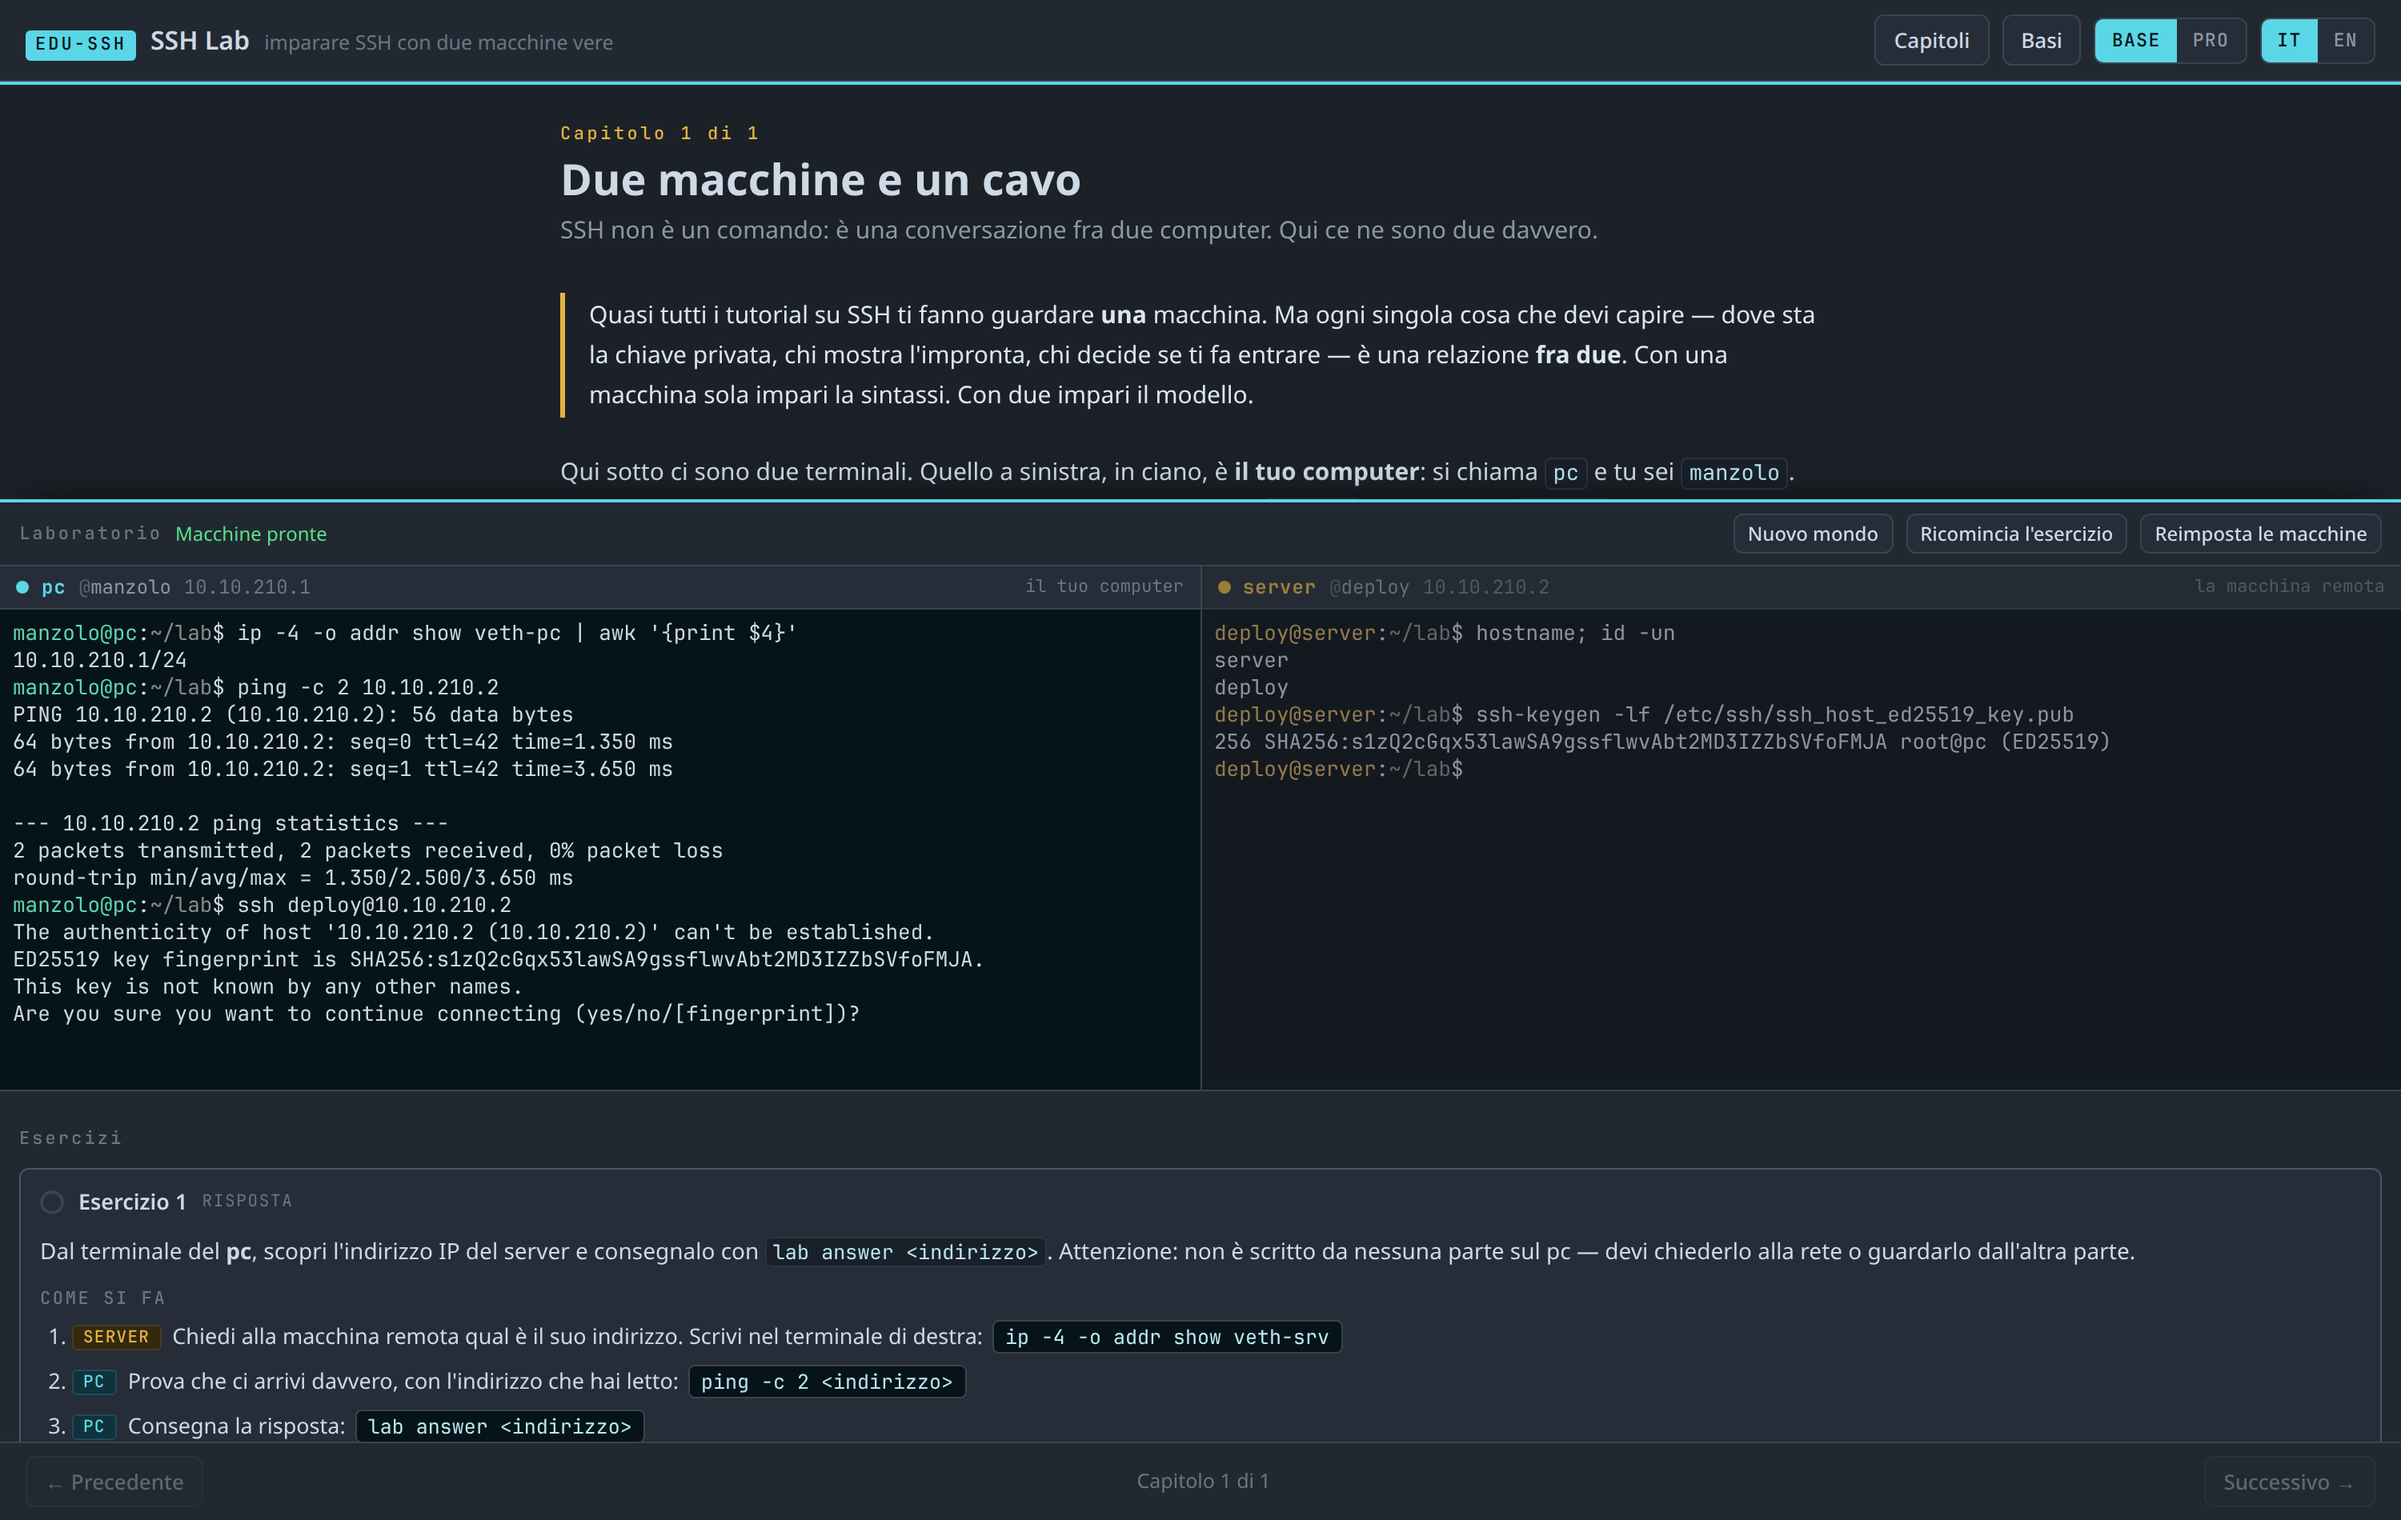
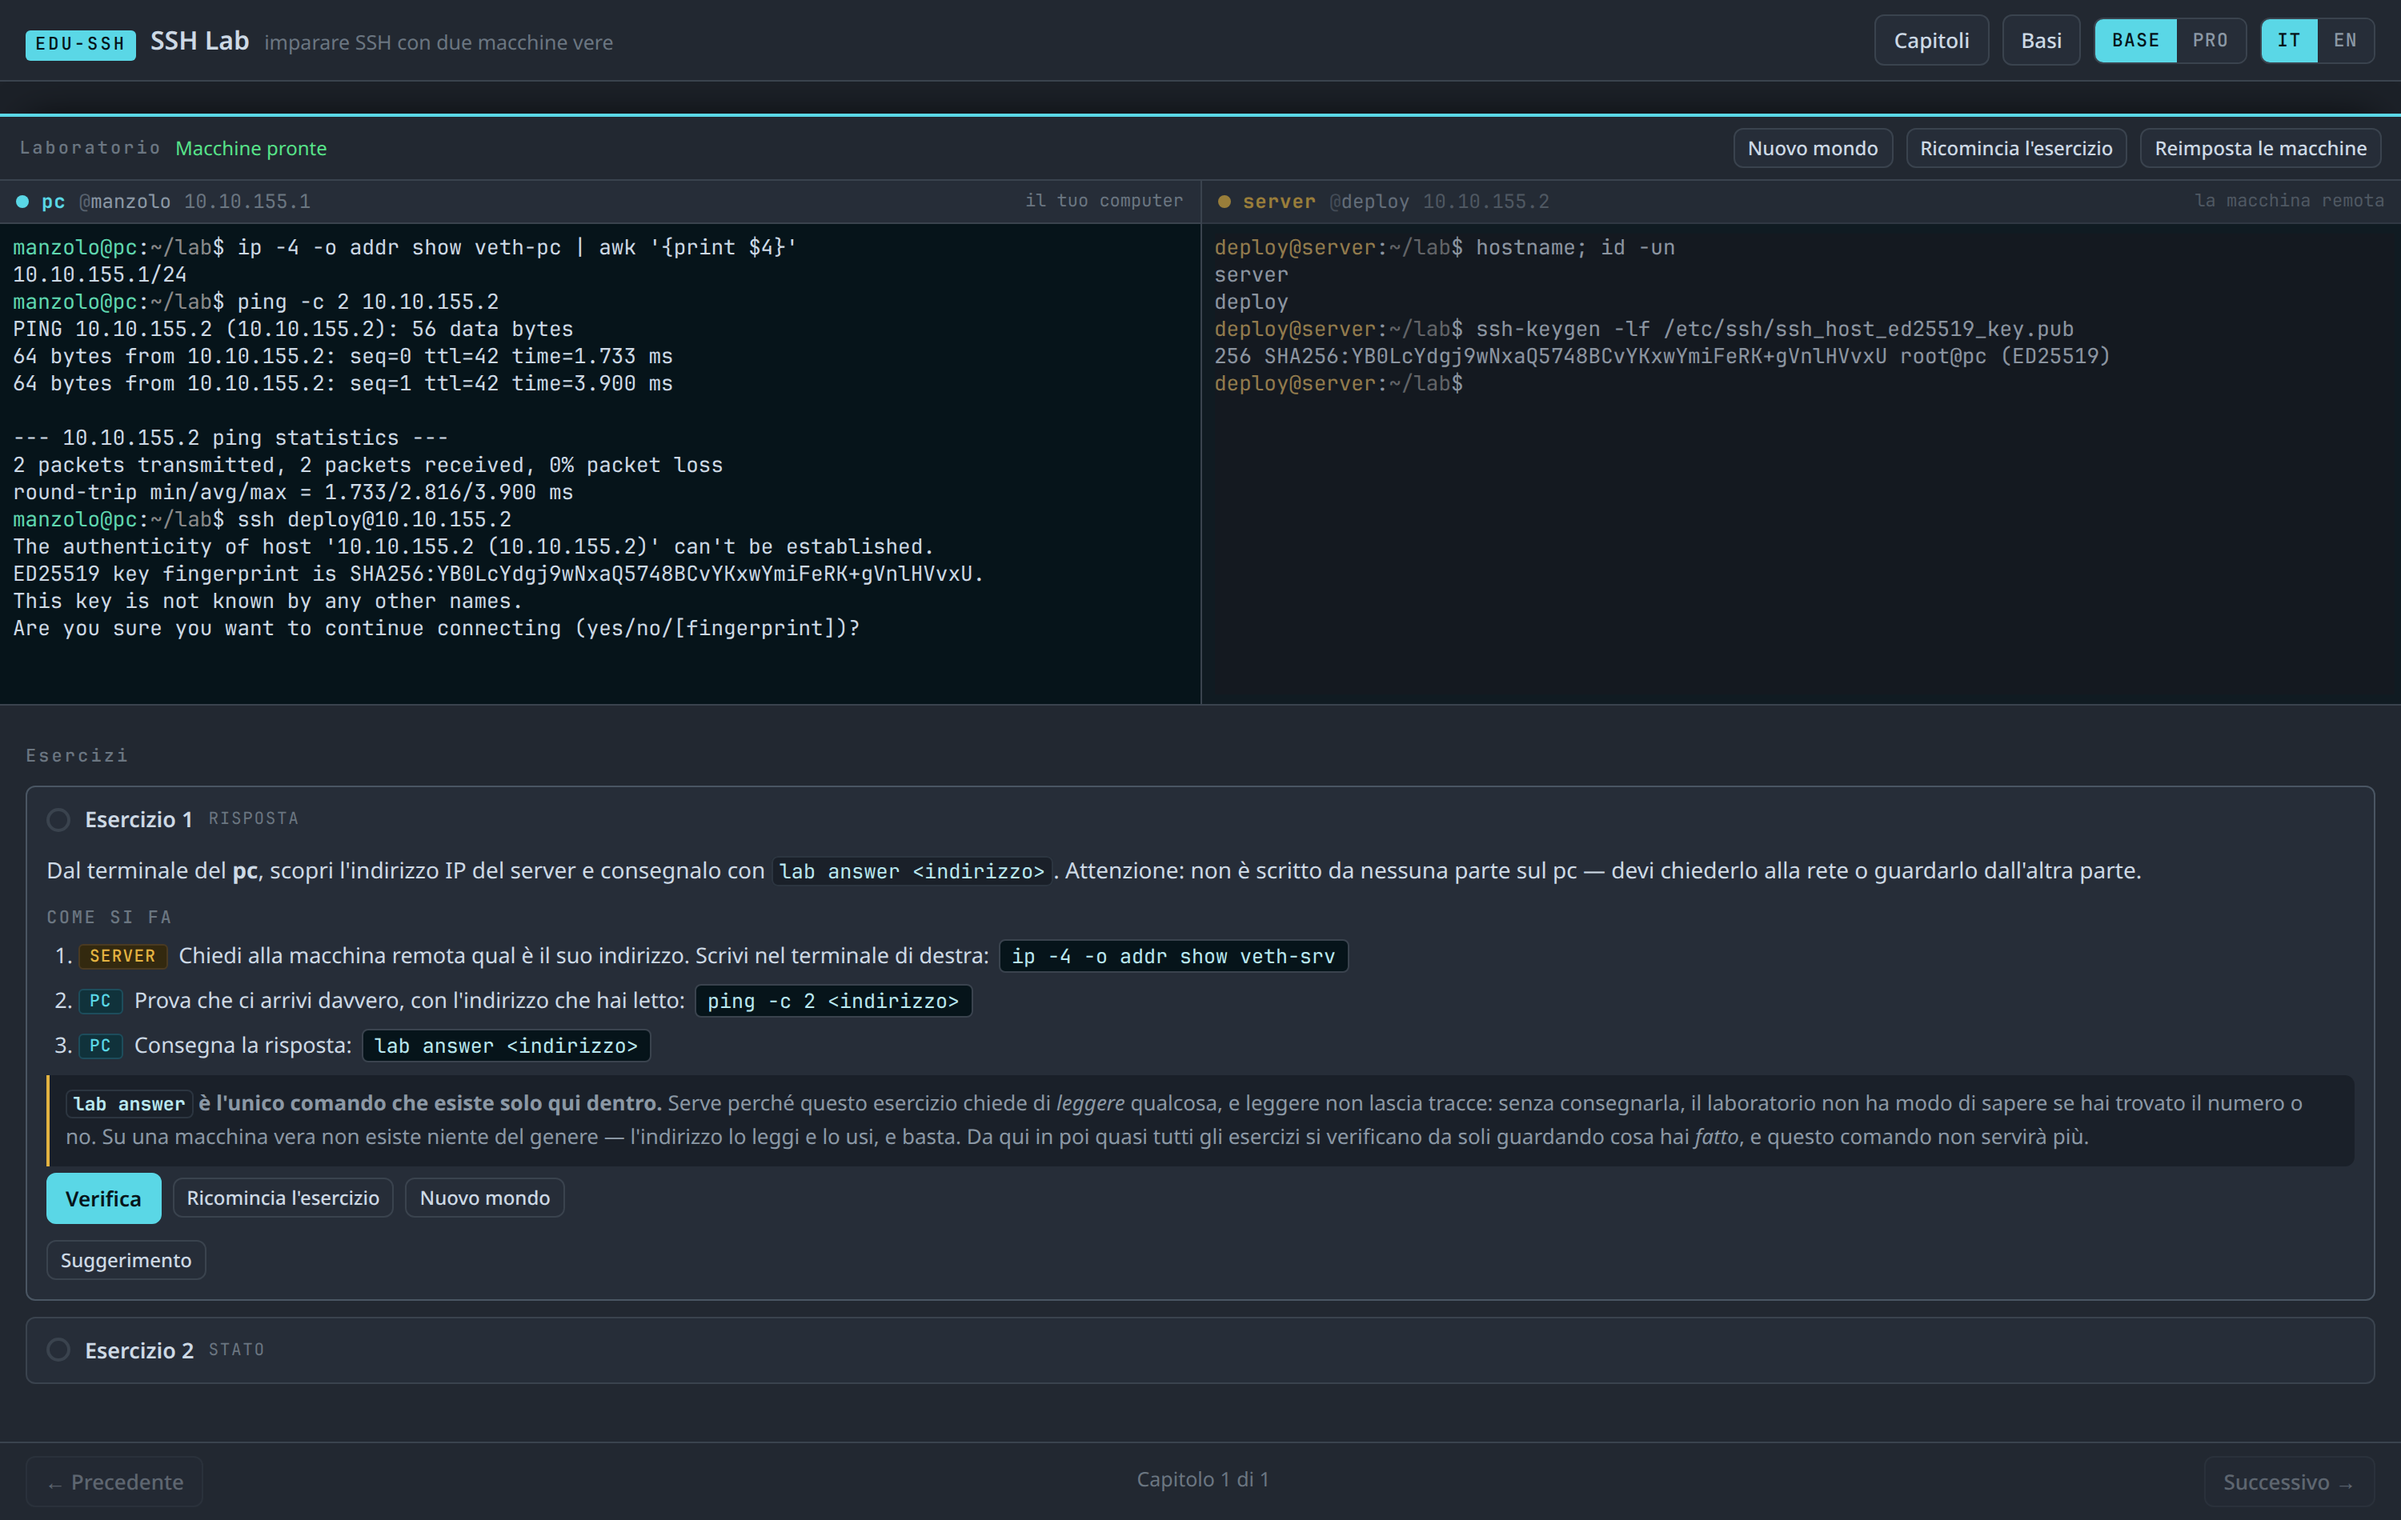
Una sola cosa che scorre: la pagina. E il verdetto fa vedere l'errore
Tre difetti trovati da Andrea usando il lab, tutti veri.

1. IL LAYOUT SPEZZAVA LE SEZIONI. Tenevo tre aree con un overflow ciascuna —
   capitolo, terminali, esercizi — dentro un'altezza bloccata. Risultato: il
   capitolo ridotto a una fessura col testo tagliato a meta' riga, e gli esercizi
   tagliati sopra e sotto.

   E' esattamente l'errore che il lab fratello aveva gia' fatto, pagato e scritto
   nel proprio CSS: «il punto non e' impilare, e' NON tenere tre aree che scorrono
   per conto loro». L'avevo reintrodotto dalla porta di servizio: avevo cambiato
   colonne in righe e mi ero tenuto le altezze bloccate, che erano la vera causa.
   Adesso scorre la pagina e basta; la barra in alto resta sticky perche' altrimenti
   sommario e lingua sparirebbero appena si scende.

2. I TRE PULSANTI USCIVANO DALLO SCHERMO. Su 380px "Reimposta le macchine" —
   cioe' la rete di sicurezza — restava tagliata fuori dalla finestra, irraggiungibile
   proprio nel momento in cui serve. Ora la testa del laboratorio va a capo, e sotto
   i 760px i tre si dividono una riga tutta loro. Stessa sorte alla tabella del
   riepilogo, che su 380px si spezza in blocchi invece di comprimersi in tre colonne
   illeggibili.

   Aggiunto tools/layout (nello scratchpad, non nel repo) e provato a 1500, 1000 e
   380px: nessun elemento fuori dalla finestra, nessuno scorrimento orizzontale.

3. IL VERDETTO NASCONDEVA L'ERRORE. Consegnando per sbaglio `lab answer lab
[…]

diff --git a/css/style.css b/css/style.css
@@ -23,15 +23,21 @@
 
 * { box-sizing: border-box; }
 
-html, body { height: 100%; }
+/* SCORRE LA PAGINA, E BASTA.
+   La versione precedente bloccava l'altezza e teneva tre aree con un overflow
+   ciascuna — capitolo, terminali, esercizi. Il risultato: il capitolo ridotto a una
+   fessura col testo tagliato a meta' riga, gli esercizi tagliati sopra e sotto, e
+   la sensazione che il layout spezzasse tutto. E' lo stesso errore che il lab
+   fratello aveva gia' fatto e documentato; qui era stato reintrodotto dalla porta
+   di servizio, cioe' impilando invece di affiancare ma tenendo le altezze bloccate.
+   Una sola area di scorrimento: quella del browser. */
+html, body { height: auto; }
 
 body {
     margin: 0;
     background: var(--chassis);
     color: var(--ink);
     font: 15px/1.65 var(--sans);
-    display: flex;
-    flex-direction: column;
 }
 
 code, kbd, pre { font-family: var(--mono); }
@@ -55,6 +61,9 @@ a { color: var(--phosphor); }
     background: var(--panel);
     border-bottom: 1px solid var(--panel-edge);
     flex-wrap: wrap;
+    /* Resta in cima mentre si scorre. Ora che scorre la pagina intera, senza questo
+       il sommario e il cambio lingua sparirebbero appena si scende ai terminali. */
+    position: sticky; top: 0; z-index: 20;
 }
 .marchio { display: flex; align-items: baseline; gap: 9px; flex: 1; min-width: 0; }
 .sigla {
@@ -92,26 +101,19 @@ a { color: var(--phosphor); }
 
 /* ---------------------------------------------------------------- impaginato */
 
-/* La griglia e' a RIGHE, non a colonne: il capitolo sopra, il laboratorio sotto a
-   tutta larghezza. Il lab fratello mette il terminale in una colonna laterale e
-   funziona, perche' li' il terminale e' uno. Qui sono due, e affiancati in una
-   colonna da 42% verrebbero 53 colonne l'uno — meno di un'impronta SHA256, che e'
-   proprio la cosa che questo lab deve far leggere. Su 1440px, cosi', ogni host ne
-   ha ~88. */
-#impaginato {
-    flex: 1; min-height: 0;
-    display: grid;
-    /* La colonna va vincolata esplicitamente. Senza, la traccia implicita e' `auto`
-       e in una griglia `auto` cresce fino al contenuto piu' largo: xterm chiedeva le
-       sue 80 colonne, la griglia gliele dava, e la pagina finiva larga il doppio
-       della finestra con la barra di scorrimento orizzontale. `minmax(0, 1fr)` dice
-       che comanda la finestra. */
-    grid-template-columns: minmax(0, 1fr);
-    grid-template-rows: minmax(0, 1fr) auto;
-}
+/* Il capitolo sopra, il laboratorio sotto, a tutta larghezza. Il lab fratello mette
+   il terminale in una colonna laterale e funziona, perche' li' il terminale e' uno.
+   Qui sono due, e affiancati in una colonna stretta verrebbero 53 colonne l'uno —
+   meno di un'impronta SHA256, che e' proprio la cosa che questo lab deve far
+   leggere. A tutta larghezza ognuno ne ha ~90. */
+/* Niente griglia e niente altezze: il capitolo e il laboratorio sono due sezioni
+   una sotto l'altra, in flusso normale. `min-width: 0` resta necessario perche'
+   xterm ha una larghezza propria (80 colonne) e senza vincolo la fa valere,
+   allargando la pagina oltre la finestra. */
+#impaginato { display: block; min-width: 0; }
 
 .capitolo {
-    overflow-y: auto; padding: 26px 30px 40px;
+    padding: 26px 30px 34px;
     max-width: 860px; width: 100%; margin: 0 auto;
 }
 @media (max-width: 700px) { .capitolo { padding: 18px 16px 30px; } }
@@ -186,16 +188,22 @@ body.pro .probox { display: block; }
 
 /* ---------------------------------------------------------------- laboratorio */
 
+/* Il laboratorio e' una sezione della pagina, non un riquadro con vita propria:
+   comincia dove finisce il capitolo e finisce dove finiscono gli esercizi.
+   Il bordo fosforo dice che si e' entrati in un'altra zona. */
 .lab {
-    display: flex; flex-direction: column; min-height: 0;
+    display: block;
     border-top: 2px solid var(--phosphor); background: var(--panel);
     box-shadow: 0 -12px 24px -18px #000;
-    max-height: 62vh;
 }
 
 .lab-testa {
     display: flex; align-items: center; gap: 8px;
     padding: 7px 12px; border-bottom: 1px solid var(--panel-edge);
+    /* I tre pulsanti devono poter andare a capo: su schermo stretto uscivano dal
+       riquadro e "Reimposta le macchine" — cioe' la rete di sicurezza — restava
+       tagliata fuori dalla finestra, irraggiungibile proprio quando serve. */
+    flex-wrap: wrap;
 }
 .lab-titolo { font: 600 11px var(--mono); letter-spacing: .14em; color: var(--ink-faint); }
 .lab-stato { font-size: 12px; color: var(--ink-soft); }
@@ -273,7 +281,7 @@ body.pro .probox { display: block; }
     background: var(--amber); margin-left: 6px; vertical-align: middle;
 }
 
-.esercizi { flex: 1; overflow-y: auto; padding: 12px; border-top: 1px solid var(--panel-edge); }
+.esercizi { padding: 14px 16px 26px; border-top: 1px solid var(--panel-edge); }
 
 /* ---------------------------------------------------------------- esercizi */
 
@@ -419,8 +427,7 @@ body.pro .probox { display: block; }
     .banco { flex-direction: column; }
     .host { flex: none; border-right: 0; border-bottom: 1px solid var(--panel-edge); }
     .host:last-child { border-bottom: 0; }
-    .host-schermo { height: 210px; }
-    .lab { max-height: none; }
+    .host-schermo { height: 240px; }
 }
 
 /* Sotto i 760px due terminali non sono due terminali: sono due fessure. Meglio
@@ -428,17 +435,24 @@ body.pro .probox { display: block; }
    ha stampato qualcosa — se il server risponde e non lo vedi, sembra che non
    abbia risposto. */
 @media (max-width: 760px) {
-    html, body { height: auto; }
-    body { display: block; }
-    .barra { position: sticky; top: 0; z-index: 20; }
-    #impaginato { display: block; }
-    .capitolo { overflow: visible; height: auto; }
-
     .schede { display: flex; }
     .host { display: none; opacity: 1; }
     .host.mostrato { display: flex; }
     .host-schermo { height: 260px; }
-    .piede { position: static; }
+
+    /* Lo spaziatore elastico spingerebbe i pulsanti fuori dallo schermo: qui sparisce
+       e i tre si dividono una riga tutta loro, sotto il titolo. Meglio due righe di
+       intestazione che un bottone che non si puo' premere. */
+    .lab-testa .spazio { display: none; }
+    .lab-testa .btn.mini { flex: 1 1 auto; text-align: center; }
+    .lab-testa { gap: 6px; }
+
+    /* La tabella del riepilogo, con tre colonne su 360px, diventa illeggibile:
+       si spezza in blocchi, uno per comando. */
+    .recap thead { display: none; }
+    .recap tr { display: block; padding: 8px 0; border-bottom: 1px solid #262d36; }
+    .recap td { display: block; border: 0; padding: 2px 0; }
+    .recap td:first-child { font-size: 14px; }
 }
 
 @media (prefers-reduced-motion: reduce) { * { transition: none !important; animation: none !important; } }
